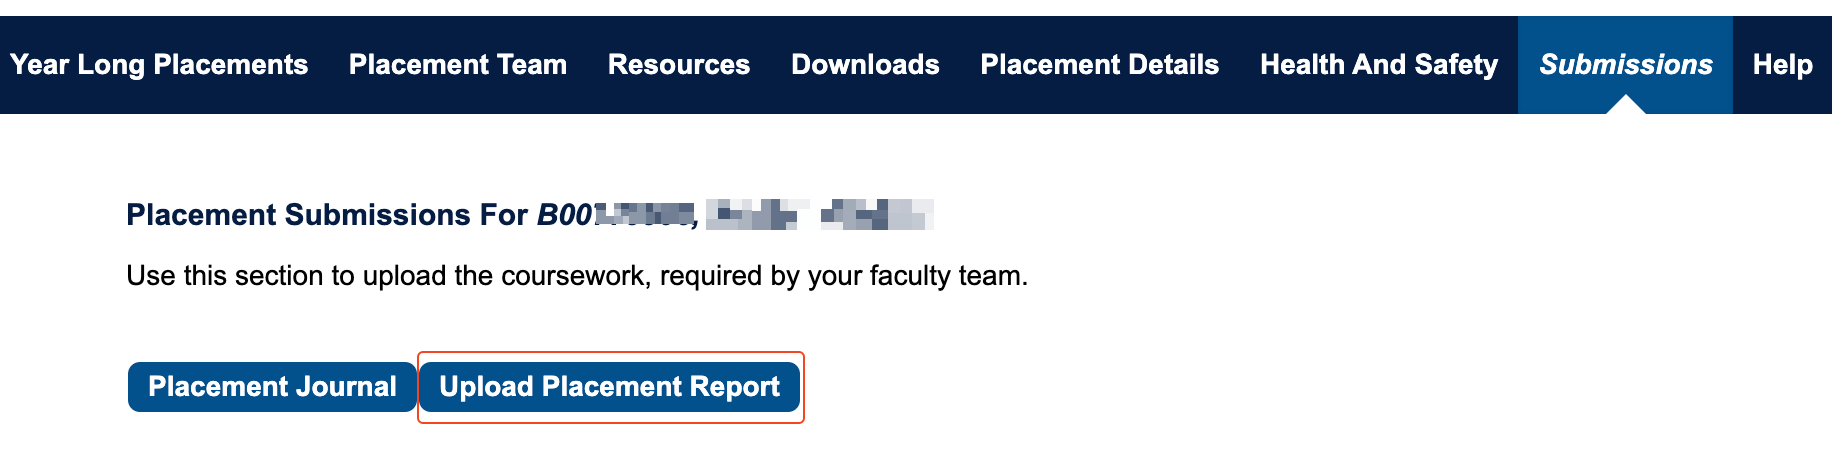
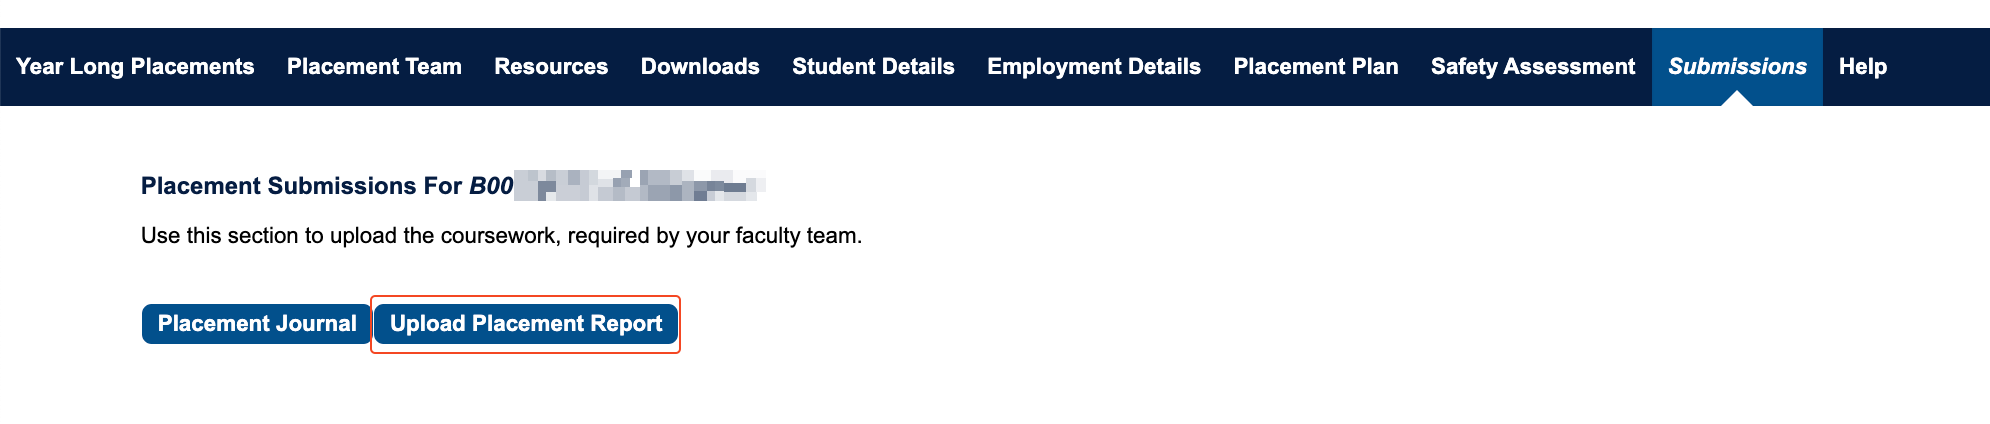
updated recruit student ui

Changed region(s): [[0.0, 0.0307, 1.0, 0.2759], [0.0622, 0.3986, 0.56, 0.6439], [0.0622, 0.6745, 0.4356, 0.9505]]

diff --git a/src/pages/recruit/student.md b/src/pages/recruit/student.md
@@ -63,46 +63,72 @@ Over the placement year you are working towards achievement of a Diploma in Prof
 
 As part of your assessment during the placement year, you will have a number of submissions to carry out. These include:
 
-    - [x] completion of placement details and health and safety forms
-    - [x] completion and signing of a learning agreement
-    - [x] completion and signing of an employer indemnity form
+    - [x] completion of placement/student details and safety assessment
     - [x] maintenance of a placement journal
     - [x] completion of paperwork relating to placement visits
     - [x] submission of a final placement report.
 
 ### Placement Details
 
-You need to firstly confirm details regarding your placement that will be required by your placement tutor and academic supervisor during the placement, (company details, supervisor details, contact details, title of role, start-end dates etc) and revise accordingly
+Once placed, when you login to Recruit and select the Year Long Placements menu option you will find details of your current placement and confirmation of any missing placement information that will be required by your placement tutor and academic supervisor during the placement.
 
-![img](/recruit/student/2-details.png)
+![img](/recruit/student/2-home.png)
 
-### Health and Safety
+### Student Details
 
-Your safety whilst on placement is of paramount importance and thus it is essential that you complete the ‘Health & Safety’ assessment form. In the case where an employer does not provide any H&S induction or training, this should be discussed with the employer and also with the academic placement visitor at the first placement visit.
+This includes personal contact details and in particular you should provide a personal email and mobile number.
+
+![img](/recruit/student/2-contact.png)
+
+### Employment Details
+
+This includes details relating to your placement (employer, role, start end dates, placement tutor etc) and your industrial supervisor.
+
+![img](/recruit/student/2-employment.png)
+
+#### Update Details
+
+Select **Edit Placement Details** to update any missing or incorrect placement details and **Industrial Supervisor** to select your industrial supervisor. If they are not listed then you can add a new industrial supervisor. 
+
+![img](/recruit/student/2-employment-edit.png)
+
+### Placement Plan
+
+Use this section to provide details on the role you will be undertaking. The job description is copied from the advert and should be updated where necessary. The duties should be discussed with your industrial supervisor and updated to reflect what the main duties of your role will be during the placement. You can update this as role progresses and your duties change.
+
+![img](/recruit/student/2-plan.png)
+
+### Safety Assessment
+
+Your safety whilst on placement is of paramount importance and thus it is essential that you complete this section.
+
+> You need to confirm with your employer that you are covered under their employer liability insurance. In the exceptional case where your employer cannot provide liability insurance you will be provided with an indemnity form from the University that both you and your employer will need to sign and upload to Recruit.
+
+ In the case where an employer does not provide any H&S induction or training, this should be discussed with the employer and also with the academic placement visitor at the first placement visit.
+
 
 ![img](/recruit/student/2-hs.png)
 
 >⚠  **NOTE:** Recruit will send reminder emails to students, until these actions are completed.
 
-### *Learning agreement - TBC*
+### Resources & Downloads
 
-You will complete the Learning Agreement Template (accessible via placement downloads - see below) and upload to Recruit.
+During the placement the student may be directed to various placement related documents. These are available in the Resources and Downloads sections and examples are shown below.
 
-![img]()
-
-### *Employer Indemnity - TBC*
-
-Your employer will need to complete and sign the indemnity form (accessible via placement downloads - see below) and upload to Recruit.
-
-![img]()
-
-### Placement Downloads
-
-During the placement the student may be directed to various placement related documents. These are available in the Downloads section and examples are shown below.
-
->⚠ **Note:** the files available in downloads will vary from year to year and the list below is for demonstration purposes only
+>⚠ **Note:** the files available in these sections will vary from year to year and the list below is for demonstration purposes only
 
 ![img](/recruit/student/3-downloads.png)
+
+### Submissions
+
+During your placement year you will be required to upload various submissions. These will include your placement journal, placement visit work summary forms, final placement report etc. 
+
+**Note** 
+1. Visit work summary forms can only be uploaded once a visit has been scheduled by your industrial supervisor.
+
+2. You should not upload your final report until told to do so by the placement coordinator. Each time you upload a report any previous submission is overwritten. Reports are typically uploaded around end of May in your placement year.
+
+## During Placement
 
 ### Placement Journal
 
@@ -112,9 +138,11 @@ To access the journal, under ‘Year Long Placements’ select ‘Submissions’
 
 ![img](/recruit/student/4-journal-1.png)
 
-#### Journal listing
+#### Journal listings
 
-Use a simple week number /date system to organise entries. Note the journal entries here are simply test data and not reflective of what a normal entry should contain. You can edit/delete a journal entry for up to 24 hours to correct mistakes. Refer to the placement handbook for guidance on journal entries.
+Use a simple week number /date system to organise entries.  You can edit/delete a journal entry for up to 24 hours to correct mistakes. **Note:** the journal entries here are simply test data and not reflective of what a normal entry should contain.
+
+> Refer to the placement handbook for guidance on journal entries.
 
 ![img](/recruit/student/4-journal-2.png)
 
@@ -122,7 +150,7 @@ New journal entries can be added by clicking the Journal Entry button and then f
 
 ![img](/recruit/student/4-journal-3.png)
 
-## Placement Visits
+### Placement Visits
 
 You can normally expect to be visited twice during your placement. The first visit will take place around November/December and the second visit around March/April. These dates may vary slightly depending on when your placement started.
 
@@ -137,23 +165,23 @@ At a visit, your academic visitor will normally:
 - Assess your achievement of the Placement Competencies
 - Give you feedback on your performance and progress
 
-### Scheduled Visit
+#### Scheduled Visit
 
 Once an academic visitor has scheduled a placement visit on Recruit, the student and the industrial supervisor are automatically emailed (email includes a calendar ICS file attachment).
 
 ![img](/recruit/student/5-visit-1.png)
 
-### Placement Work Summary
+#### Placement Work Summary
 
 The student should then upload the Placement Work Summary Form at least 48 hours before your first placement visit. Note the option to upload the form is not available until the academic supervisor schedules the visit **via Recruit**. If the upload does not appear then contact your academic supervisor and ask them to schedule the visit in Recruit.
 
-The Placement Work Summary Form template is available in the [downloads](/6-student-guidance/#placement-downloads) section.
+The Placement Work Summary Form template is available in the [downloads](/recruit/student#resources--downloads) area.
 
 You can upload this document as often as required (over writing the original), up until the academic has submitted visit feedback and at which point the document can no longer be uploaded.
 
 ![img](/recruit/student/5-visit-2.png)
 
-### Visit Feedback
+#### Visit Feedback
 
 Once the visit has been completed the academic will upload their visit feedback and the student will receive and email alerting them to the fact that the feedback is now available.
 
@@ -165,11 +193,11 @@ When you log in again you can no longer upload the First Visit Submission and in
 
 You should reflect, in your Placement Journal, upon any feedback you have been given.
 
-## Final Report
+### Final Report
 
-In semester 2 (typically around the second placement visit) students will be contacted by email and provided with instructions regarding submission of the final placement report. A template for the report will be provided via email and/or via the Recruit [downloads](/6-student-guidance/#placement-downloads) area.
+In semester 2 (typically around the second placement visit) students will be contacted by email and provided with instructions regarding submission of the final placement report. A template for the report will be provided via email and/or via the Recruit [downloads](/recruit/student#resources--downloads) area.
 
-### Upload Report
+#### Upload Report
 
  To upload the report select the `Upload Placement Report` button in the Submissions section.
 
@@ -179,7 +207,7 @@ Then upload the report (in pdf format). As noted, you should not upload the repo
 
 ![img](/recruit/student/6-report-2.png)
 
-### Feedback
+#### Feedback
 
 As per placement visit submissions, once the final report submission has been assessed/feedback provided, it can no longer be uploaded.
 
